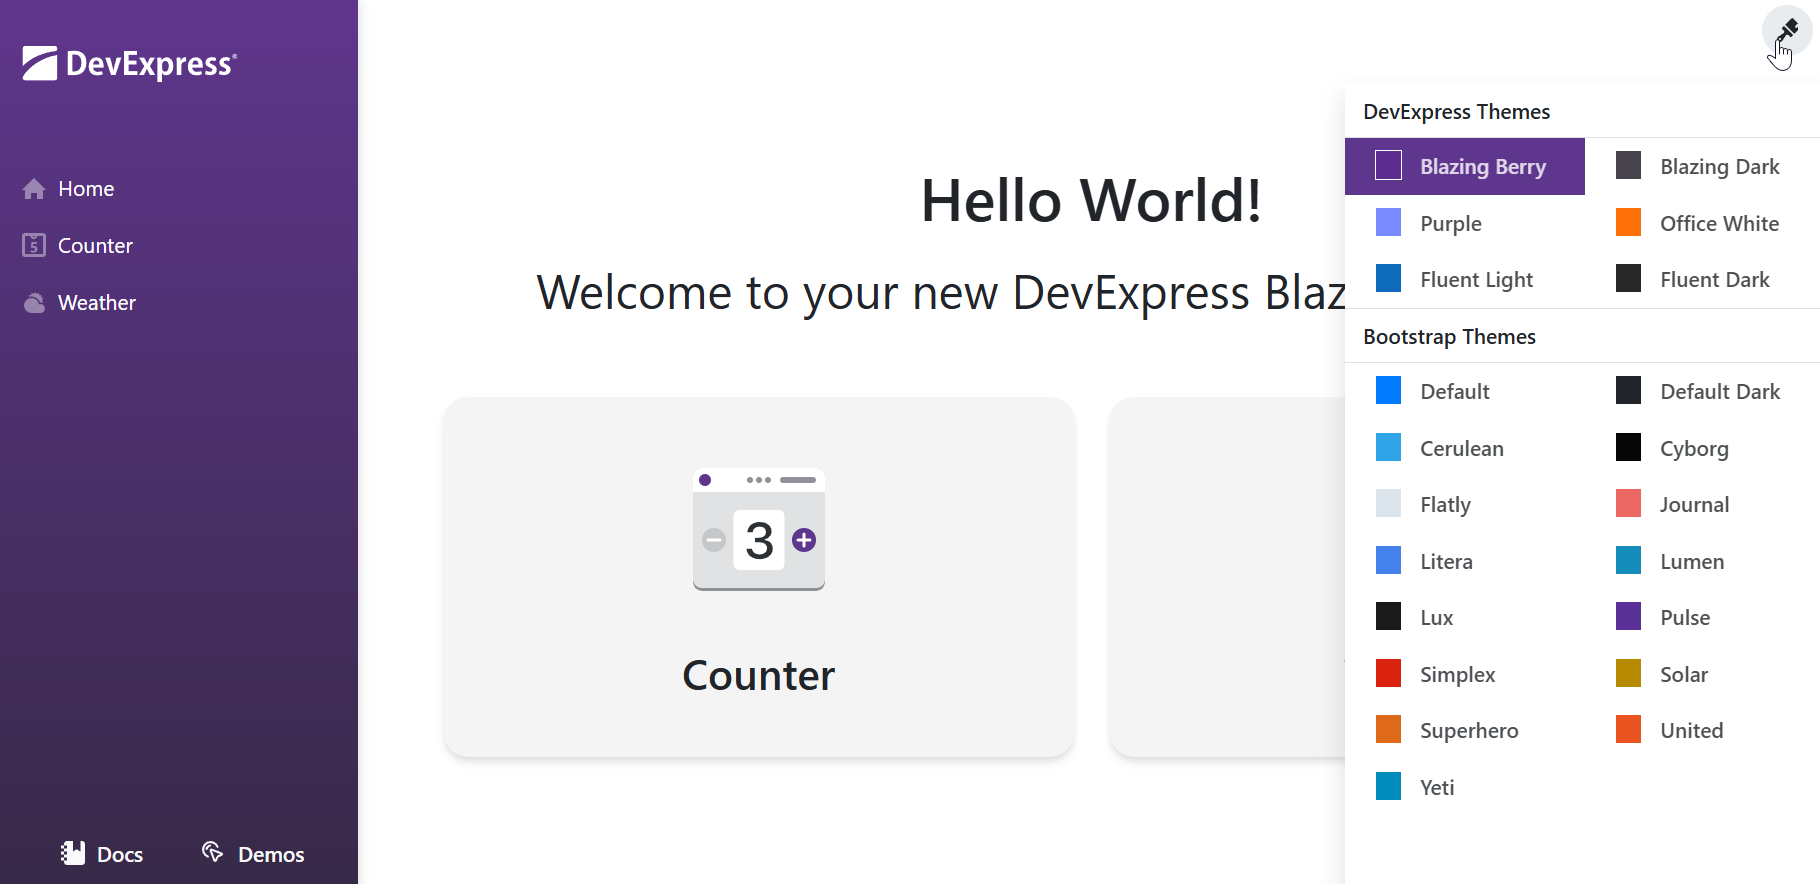
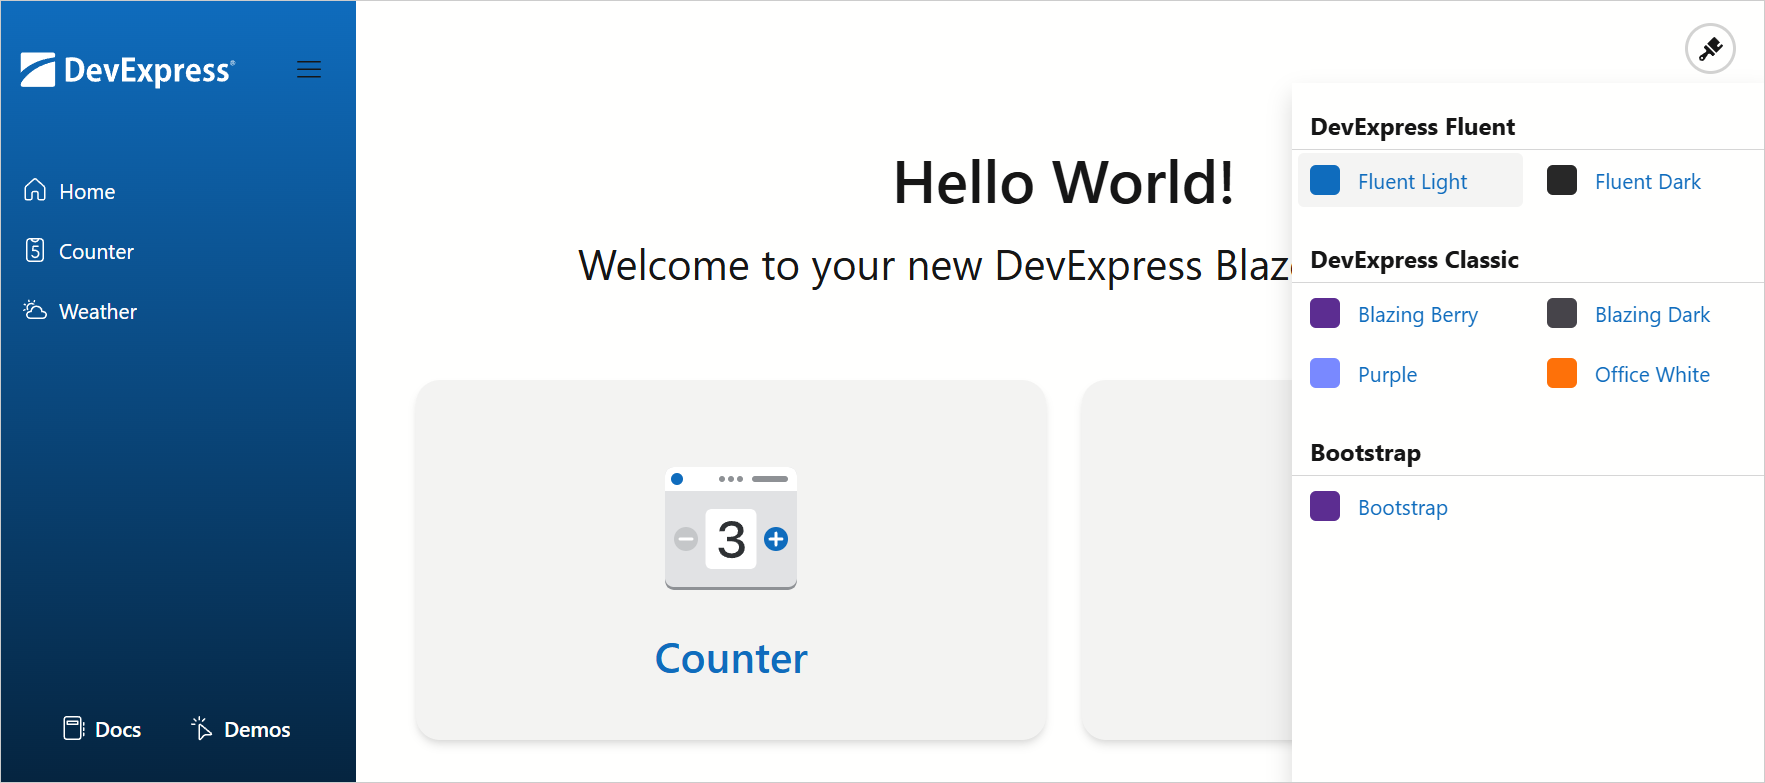
Update example with new API (#20)
* update image

* update image

* update readme

* update readme

* update readme

* Apply suggestions from code review

* Apply suggestions from code review

* Apply suggestions from code review

* Apply suggestions from code review

---------

Pull request: Update example with new API

diff --git a/Readme.md b/Readme.md
@@ -1,159 +1,183 @@
-<!-- default badges list -->
-![](https://img.shields.io/endpoint?url=https://codecentral.devexpress.com/api/v1/VersionRange/227836631/25.1.3%2B)
-[![](https://img.shields.io/badge/Open_in_DevExpress_Support_Center-FF7200?style=flat-square&logo=DevExpress&logoColor=white)](https://supportcenter.devexpress.com/ticket/details/T845557)
-[![](https://img.shields.io/badge/📖_How_to_use_DevExpress_Examples-e9f6fc?style=flat-square)](https://docs.devexpress.com/GeneralInformation/403183)
-[![](https://img.shields.io/badge/💬_Leave_Feedback-feecdd?style=flat-square)](#does-this-example-address-your-development-requirementsobjectives)
-<!-- default badges end -->
-# How to implement a Theme Switcher in Blazor applications
+# Implement a Theme Switcher in Blazor Applications
 
-This example demonstrates how to add a Theme Switcher to your application. The switcher in this example is the same as in [DevExpress Blazor Demos](https://demos.devexpress.com/blazor/). It allows users to switch between [DevExpress built-in themes](https://docs.devexpress.com/Blazor/401523/common-concepts/customize-appearance/themes) and external Bootstrap themes (the default theme and [free Bootswatch options](https://bootswatch.com/)).
+This example demonstrates how to add a Theme Switcher to your application. Users can switch between DevExpress Fluent and Classic themes and external Bootstrap themes. This example uses the [DxResourceManager.RegisterTheme(ITheme)](https://docs.devexpress.com/Blazor/DevExpress.Blazor.DxResourceManager.RegisterTheme(DevExpress.Blazor.ITheme)) method to apply a theme at application startup and the [IThemeChangeService.SetTheme()](https://docs.devexpress.com/Blazor/DevExpress.Blazor.IThemeChangeService.SetTheme(DevExpress.Blazor.ITheme)) method to change the theme at runtime.
 
 
 ![Blazor - Theme Switcher](images/blazor-theme-switcher.png)
 
-The example's solution targets .NET 8, but you can also integrate this Theme Switcher in projects that target .NET 6 and .NET 7.
+## Configure Available Themes
+
+The theme switcher includes the following themes:
+
+* DevExpress Fluent (Light Blue and Dark Blue)
+* DevExpress Classic (Blazing Berry, Blazing Dark, Purple, and Office White)
+* [Bootstrap External](https://cdn.jsdelivr.net/npm/bootstrap@5.3.3/dist/css/bootstrap.min.css)
+
+
+Create a `Themes.cs` file and configure themes:
+
+
+1. For Classic themes, choose a theme from the built-in DevExpress Blazor [Themes](https://docs.devexpress.com/Blazor/DevExpress.Blazor.Themes) collection:
+
+    ```cs
+    public static readonly ITheme BlazingBerry = Themes.BlazingBerry;
+    public static readonly ITheme BlazingDark = Themes.BlazingDark;
+    public static readonly ITheme Purple = Themes.Purple;
+    public static readonly ITheme OfficeWhite = Themes.OfficeWhite;
+    ```
+1. For Fluent themes, call the [Clone()](https://docs.devexpress.com/Blazor/DevExpress.Blazor.DxThemeBase-1.Clone(System.Action--0-)) method to add theme stylesheets and change theme mode:
+
+    ```cs
+    public static readonly ITheme FluentLight = Themes.Fluent.Clone(props => {
+        props.AddFilePaths("css/theme-fluent.css");
+    });
+    public static readonly ITheme FluentDark = Themes.Fluent.Clone(props => {
+        props.Mode = ThemeMode.Dark;
+        props.AddFilePaths("css/theme-fluent.css");
+    });
+    ```
+1. For Bootstrap themes, call the [Clone()](https://docs.devexpress.com/Blazor/DevExpress.Blazor.DxThemeBase-1.Clone(System.Action--0-)) method to add a Bootstrap theme stylesheet. Use the same approach if you want to apply your own stylesheets.
+
+    ```cs
+    public static readonly ITheme BootstrapDefault = Themes.BootstrapExternal.Clone(props => {
+        props.Name = "Bootstrap";
+        props.AddFilePaths("https://cdn.jsdelivr.net/npm/bootstrap@5.3.3/dist/css/bootstrap.min.css");
+        props.AddFilePaths("css/theme-bs.css");
+    });
+    ```
+1. Create a list of themes:
+
+
+    ```cs
+    public enum MyTheme {
+        Fluent_Light,
+        Fluent_Dark,
+
+        Blazing_Berry,
+        Blazing_Dark,
+        Purple,
+        Office_White,
+
+        Bootstrap
+    }
+    ```
 
 ## Add a Theme Switcher to an Application
 
-Follow the steps below to add a Theme Switcher into your application:
+Follow the steps below to add a Theme Switcher to your application:
 
-1. Copy this example's [ThemeSwitcher](./CS/switcher/switcher/ThemeSwitcher) folder to your project.
-2. In the *_Imports.razor* file, import the `switcher.ThemeSwitcher` namespace and files located in the *ThemeSwitcher* folder:
+1. Copy this example's [ThemeSwitcher](./CS/switcher/switcher/Components/ThemeSwitcher) folder to your project.
+
+2. Copy the example's [switcher-resources](./CS/switcher/switcher/wwwroot/switcher-resources) folder to your application's *wwwroot* folder. The *switcher-resources* folder has the following structure:
+
+    * **js/cookies-manager.js**  
+    Contains a function that stores the theme in a cookie variable.
+    * **theme-switcher.css**  
+    Contains CSS rules that define the Theme Switcher's appearance and behavior.
+
+3. Add the following services to your application (copy the corresponding files):
+
+    * [ThemeService.cs](./CS/switcher/switcher/Services/ThemesService.cs)  
+    Implements [IThemeChangeService](https://docs.devexpress.com/Blazor/DevExpress.Blazor.IThemeChangeService) to switch themes at runtime and uses the [SetTheme()](https://docs.devexpress.com/Blazor/DevExpress.Blazor.IThemeChangeService.SetTheme(DevExpress.Blazor.ITheme)) method to apply the selected theme. 
+    * [Themes.cs](./CS/switcher/switcher/Services/Themes.cs)  
+    Creates a list of themes for the theme switcher using the built-in DevExpres Blazor [Themes](https://docs.devexpress.com/Blazor/DevExpress.Blazor.Themes) collection (for Classic themes) and the [Clone()](https://docs.devexpress.com/Blazor/DevExpress.Blazor.DxThemeBase-1.Clone(System.Action--0-)) method for Fluent and Bootstrap themes.
+    * [CookiesService.cs](./CS/switcher/switcher/Services/CookiesService.cs)  
+    Manages cookies.
+
+2. In the [_Imports.razor](./CS/switcher/switcher/Components/_Imports.razor) file, import `{ProjectName}.Components.ThemeSwitcher` and `{ProjectName}.Services` namespaces:
 
     ```cs
-    @using <YourProjectName>.ThemeSwitcher
-    @using switcher.ThemeSwitcher
+    @using {ProjectName}.Components.ThemeSwitcher
+    @using {ProjectName}.Services
     ```
 
-3. Copy this example's [switcher-resources](./CS/switcher/switcher/wwwroot/switcher-resources) folder to your application's *wwwroot* folder. The *switcher-resources* folder has the following structure:
+5. Register `ThemesService` and `CookiesService` in the [Program.cs](./CS/switcher/switcher/Program.cs#L13-L16) file. Ensure that this file also contains `Mvc` and `HttpContextAccessor` services:
 
-    * **css/themes**  
-    Includes nested folders whose names correspond to external Bootstrap themes. Each nested folder stores an external theme's stylesheet (*bootstrap.min.css*). Note that built-in DevExpress themes are added to the application with DevExpress Blazor components and stored separately in the **DevExpress.Blazor.Themes** NuGet package.
-
-    * **css/themes.css**  
-    Contains CSS rules used to draw colored squares for each theme in the Theme Switcher.
-    * **css/theme-switcher.css**  
-    Contains CSS rules that define the Theme Switcher's appearance and behavior.
-    * **theme-controller.js**  
-    Contains functions that add and remove links to theme stylesheets.
-    * **theme.svg**  
-    An icon displayed in the Theme Switcher.
-
-4. In the layout file, use the [HttpContextAccessor](https://learn.microsoft.com/en-us/dotnet/api/microsoft.aspnetcore.http.httpcontextaccessor?view=aspnetcore-8.0) class to obtain the current theme from cookies:
-    ```html
-    @using Microsoft.AspNetCore.Mvc.ViewFeatures
-    @inject IFileVersionProvider FileVersionProvider
-    @inject ThemeService Themes
-    @inject Microsoft.AspNetCore.Http.IHttpContextAccessor HttpContextAccessor
-    @{
-        string? InitialThemeName = HttpContextAccessor.HttpContext?.Request.Cookies["ActiveTheme"];
-        Themes.SetActiveThemeByName(InitialThemeName);
-        var bsTheme = Themes.GetBootstrapThemeCssUrl(Themes.ActiveTheme);
-        var dxTheme = Themes.GetThemeCssUrl(Themes.ActiveTheme);
-        var hlTheme = Themes.GetHighlightJSThemeCssUrl(Themes.ActiveTheme);
-
-        string AppendVersion(string path) => FileVersionProvider.AddFileVersionToPath("/", path);
-    }
-    ```
-5. In the `head` section of the layout file, replace a link to a theme stylesheet with the following code:
-    ```html
-    <head>
-       @if (!string.IsNullOrEmpty(bsTheme)) {
-            <link rel="stylesheet" href="@AppendVersion(bsTheme)" bs-theme-link />
-        }
-        @if (!string.IsNullOrEmpty(dxTheme)) {
-            <link rel="stylesheet" href="@AppendVersion(dxTheme)" dx-theme-link />
-        }
-        @if (!string.IsNullOrEmpty(hlTheme)) {
-            <link rel="stylesheet" href="@hlTheme" hl-theme-link />
-        }
-    </head>
-    ```
-6. Register the Theme Switcher's styles in the `head` section of the layout file:
-    ```html
-    <head>
-       <link href="switcher-resources/css/theme-switcher.css" rel="stylesheet" />
-       <link href="switcher-resources/css/themes.css" rel="stylesheet" />
-       @* ... *@
-    </head>
-    ```
-7. Add the following `div` element to the `body` section of the layout file:
-    ```html
-    <body>
-       <div id="switcher-container" data-permanent></div>
-        @* ... *@
-    </body>
-    ```
-8. Register `Mvc` and `ThemeService` in the `Program.cs` file:
     ```cs
     builder.Services.AddMvc();
-    builder.Services.AddScoped<ThemeService>();
+    builder.Services.AddHttpContextAccessor();
+    builder.Services.AddScoped<ThemesService>();
+    builder.Services.AddTransient<CookiesService>();
     ```
-9. Declare the Theme Switcher component in the *MainLayout.razor* file:    
+
+6. Add the following code to the [App.razor](./CS/switcher/switcher/Components/App.razor) file:
+
+    * Inject services with the [&#91;Inject&#93; attribute](https://learn.microsoft.com/en-us/dotnet/api/microsoft.aspnetcore.components.injectattribute):
+
+        ```html
+        @inject IHttpContextAccessor HttpContextAccessor
+        @inject ThemesService ThemesService
+        ```
+    
+    * Add script and stylesheet links to the file's `<head>` section and call the [DxResourceManager.RegisterTheme(ITheme)](https://docs.devexpress.com/Blazor/DevExpress.Blazor.DxResourceManager.RegisterTheme(DevExpress.Blazor.ITheme)) method to apply a theme on application startup:
+
+        ```html
+        <head>
+            @* ... *@
+            <script src=@AppendVersion("switcher-resources/js/cookies-manager.js")></script>
+            <link href=@AppendVersion("switcher-resources/theme-switcher.css") rel="stylesheet" />
+
+            @DxResourceManager.RegisterTheme(InitialTheme)
+            @* ... *@
+        </head>
+        ```
+
+    * Obtain the theme from cookies during component initialization:
+
+        ```razor
+        @code {
+            private ITheme InitialTheme;
+            protected override void OnInitialized() {
+                InitialTheme = ThemesService.GetThemeFromCookies(HttpContextAccessor);
+            }
+        }
+        ```
+
+7. Declare the Theme Switcher component in the [MainLayout.razor](./CS/switcher/switcher/Components/Layout/MainLayout.razor#L22) file:
+
     ```razor
-    <ThemeSwitcher />
+    <Drawer>
+    @* ... *@
+        <ThemeSwitcher />
+    @* ... *@
+    </Drawer>
     ``` 
-10. *For .NET 6 and .NET 7 applications.* Remove the `@rendermode InteractiveServer` directive from [ThemeSwitcher.razor](./CS/switcher/switcher/ThemeSwitcher/ThemeSwitcher.razor#L2), [ThemeSwitcherContainer.razor](./CS/switcher/switcher/ThemeSwitcher/ThemeSwitcherContainer.razor#L4), and [ThemeSwitcherItem.razor](./CS/switcher/switcher/ThemeSwitcher/ThemeSwitcherItem.razor#L2) files. 
 
-## Add Themes to the Theme Switcher
-
-Follow the steps below to add an external Bootstrap theme to the Theme Switcher:
-
-1. In the **wwwroot/css/themes** folder, create a new folder for this theme. The folder and theme names should match.
-
-2. Add the theme's stylesheet (*bootstrap.min.css*) to the newly created folder.
-
-3. Add the following CSS rule to the *wwwroot/css/themes.css* file:
-
-    ```css
-    .blazor-themes a.<your-theme-name>:before {
-        background: <theme-main-color>;
-    }
-    ```
-
-4. In *ThemeService.cs*, add the theme name to the **Bootstrap Themes** theme set:
+## Add Stylesheets to a Theme (Apply Styles to Non-DevExpress UI Elements)
 
 
-    ```cs
-    private static List<ThemeSet> CreateSets(ThemeService config) {
-        return new List<ThemeSet>() {
-            new ThemeSet("DevExpress Themes", NEW_BLAZOR_THEMES),
-            new ThemeSet("Bootstrap Themes", "<your-theme-name>", "default", "default-dark", "cerulean")
-        };
-    }
-    ```
+Our DevExpress Blazor themes affect DevExpress components only. To apply theme-specific styles to non-DevExpress elements or the entire application, add external stylesheets to the theme using its `AddFilePaths()` method:
 
-## Remove Themes from the Theme Switcher
 
-Follow the steps below to remove a built-in DevExpress or external Bootstrap theme from the Theme Switcher:
+> Bootstrap themes require external theme-specific stylesheets. Once you register a Bootstrap theme, call the `Clone()` method and add the stylesheet using theme properties.
 
-1. Open *ThemeService.cs* and remove the theme name from the **DevExpress Themes** or **Bootstrap Themes** theme set:
 
-    ```cs
-    private static List<ThemeSet> CreateSets(ThemeService config) {
-        return new List<ThemeSet>() {
-            new ThemeSet("DevExpress Themes", NEW_BLAZOR_THEMES),
-            new ThemeSet("Bootstrap Themes", /*"<your-theme-name>"*/, "default", "default-dark", "cerulean")
-        };
-    }
-    ```
+```cs
+public static readonly ITheme BootstrapDefault = Themes.BootstrapExternal.Clone(props => {
+    props.Name = "Bootstrap";
+    // Links a Bootstrap theme stylesheet
+    props.AddFilePaths("https://cdn.jsdelivr.net/npm/bootstrap@5.3.3/dist/css/bootstrap.min.css");
+    // Links a custom stylesheet
+    props.AddFilePaths("css/theme-bs.css");
+});
+```
 
-2. Remove the CSS rule that corresponds to this theme from the *wwwroot/css/themes.css* file.
+## Change Bootstrap Theme Color Modes
 
-    ```css
-    /* .blazor-themes a.<your-theme-name>:before {
-        background: <theme-main-color>;
-    }*/
-    ```
+If you want to use dark Bootstrap themes, implement custom logic that applies a `data-bs-theme` attribute to the root <html> element:
 
-3. *For an external Bootstrap theme.* Delete the *wwwroot/css/themes/\<your-theme-name\>* folder.
+* `data-bs-theme="light"` for light themes
+* `data-bs-theme="dark"` for dark themes
+
+Refer to the following article for more information: [Color Modes](https://getbootstrap.com/docs/5.3/customize/color-modes/).
 
 ## Files to Review
 
-* [ThemeSwitcher](./CS/switcher/switcher/ThemeSwitcher) (folder)
+* [ThemeSwitcher](./CS/switcher/switcher/Components/ThemeSwitcher) (folder)
 * [switcher-resources](./CS/switcher/switcher/wwwroot/switcher-resources) (folder)
-* [App.razor](./CS/switcher/switcher/App.razor)
-* [MainLayout.razor](./CS/switcher/switcher/Layout/MainLayout.razor)
+* [Services](./CS/switcher/switcher/Services) (folder)
+* [App.razor](./CS/switcher/switcher/Components/App.razor)
+* [MainLayout.razor](./CS/switcher/switcher/Components/Layout/MainLayout.razor)
 * [Program.cs](./CS/switcher/switcher/Program.cs)
 
 ## Documentation